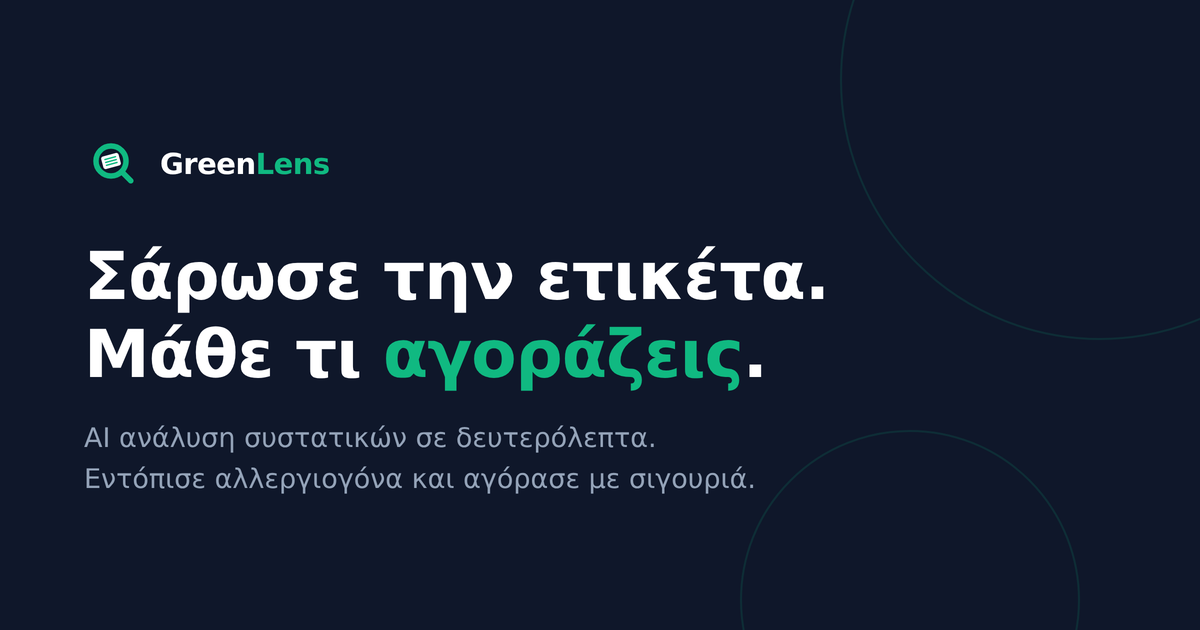
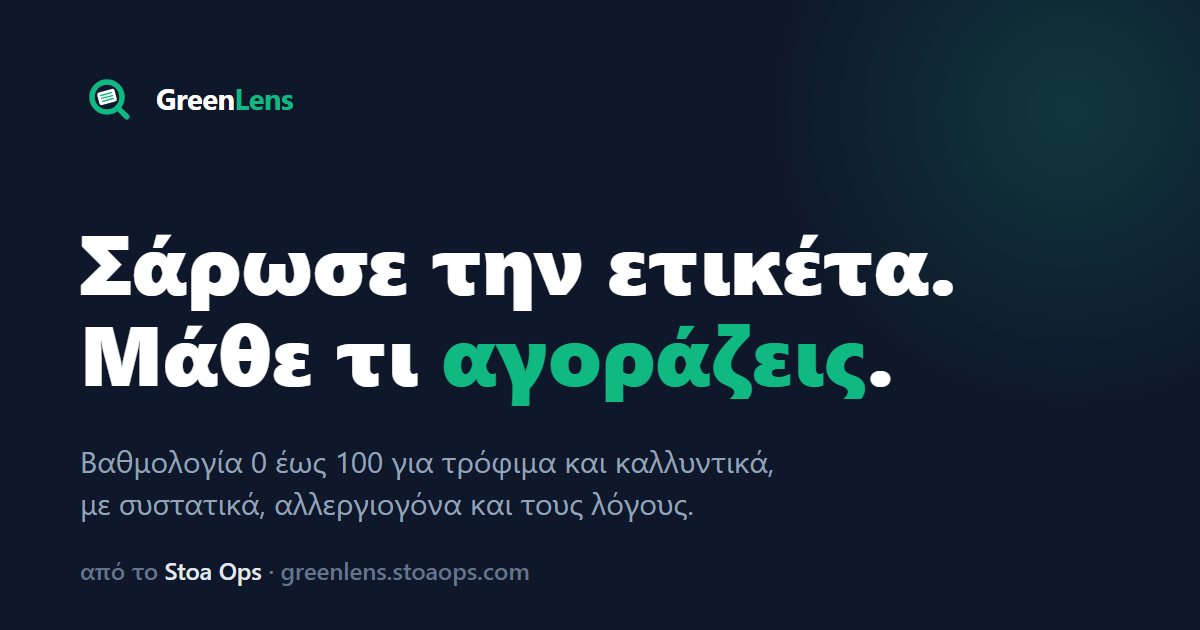
feat(seo): canonical domain, JSON-LD, new OG image and Stoa Ops credit
Fix robots/sitemap domain, align theme colour, drop inaccurate "AI" and
"medical" wording, add Stoa Ops attribution on Home, and stop long
ingredient names overlapping the rating badge.

diff --git a/index.html b/index.html
@@ -14,8 +14,12 @@
 
     <meta
       name="description"
-      content="Σκάναρε συστατικά τροφίμων και καλλυντικών με AI. Διάβασε συστατικά, αλλεργιογόνα και σημεία προσοχής πριν αγοράσεις."
+      content="Σκάναρε την ετικέτα τροφίμων και καλλυντικών και δες βαθμολογία 0 έως 100, συστατικά, αλλεργιογόνα και σημεία προσοχής πριν αγοράσεις."
     />
+
+    <meta name="robots" content="index, follow" />
+    <meta name="author" content="Stoa Ops" />
+    <link rel="canonical" href="https://greenlens.stoaops.com/" />
 
     <meta name="mobile-web-app-capable" content="yes" />
     <meta name="apple-mobile-web-app-capable" content="yes" />
@@ -24,7 +28,7 @@
 
     <meta
       name="theme-color"
-      content="#F4F6F3"
+      content="#10B981"
     />
 
     <!-- Favicons -->
@@ -55,7 +59,7 @@
 
     <meta
       property="og:description"
-      content="AI ανάλυση συστατικών τροφίμων και καλλυντικών. Δες αλλεργιογόνα, σημεία προσοχής και χρήσιμες πληροφορίες σε δευτερόλεπτα."
+      content="Βαθμολογία 0 έως 100 για τρόφιμα και καλλυντικά, με συστατικά, αλλεργιογόνα και σημεία προσοχής. Σταθεροί κανόνες, εξηγήσιμο αποτέλεσμα."
     />
 
     <meta
@@ -88,6 +92,13 @@
       content="630"
     />
 
+    <meta
+      property="og:image:alt"
+      content="GreenLens: Σάρωσε την ετικέτα. Μάθε τι αγοράζεις. Από το Stoa Ops."
+    />
+
+    <meta property="og:locale" content="el_GR" />
+
     <!-- Twitter / X -->
     <meta
       name="twitter:card"
@@ -101,13 +112,32 @@
 
     <meta
       name="twitter:description"
-      content="AI ανάλυση συστατικών τροφίμων και καλλυντικών."
+      content="Βαθμολογία 0 έως 100 για τρόφιμα και καλλυντικά, με τους λόγους."
     />
 
     <meta
       name="twitter:image"
       content="https://greenlens.stoaops.com/og/og-image.png"
     />
+
+    <script type="application/ld+json">
+      {
+        "@context": "https://schema.org",
+        "@type": "WebApplication",
+        "name": "GreenLens",
+        "url": "https://greenlens.stoaops.com/",
+        "description": "Σκάναρε την ετικέτα τροφίμων και καλλυντικών και δες βαθμολογία 0 έως 100 με συστατικά, αλλεργιογόνα και σημεία προσοχής.",
+        "applicationCategory": "LifestyleApplication",
+        "operatingSystem": "Any (web, installable PWA)",
+        "inLanguage": "el",
+        "offers": { "@type": "Offer", "price": "0", "priceCurrency": "EUR" },
+        "creator": {
+          "@type": "Organization",
+          "name": "Stoa Ops",
+          "url": "https://stoaops.com"
+        }
+      }
+    </script>
   </head>
 
   <body>

diff --git a/src/components/IngredientCard.tsx b/src/components/IngredientCard.tsx
@@ -63,12 +63,14 @@ export default function IngredientCard(props: {
         aria-expanded={open}
         className="flex w-full items-start justify-between gap-2 text-left"
       >
-        <div className="min-w-0">
-          <h3 className="flex items-center gap-2 break-words text-sm font-semibold leading-tight text-slate-100">
+        <div className="min-w-0 flex-1">
+          <h3 className="flex items-start gap-2 text-sm font-semibold leading-tight text-slate-100">
             <span
-              className={`h-2 w-2 shrink-0 rounded-full ${ratingDotClass[insight.rating]}`}
+              className={`mt-1 h-2 w-2 shrink-0 rounded-full ${ratingDotClass[insight.rating]}`}
             />
-            {insight.name}
+            <span className="min-w-0 [overflow-wrap:anywhere]">
+              {insight.name}
+            </span>
           </h3>
 
           <p className="mt-1 pl-4 text-xs text-slate-500">

diff --git a/src/pages/Home.tsx b/src/pages/Home.tsx
@@ -356,6 +356,18 @@ export default function Home() {
             <span>{scale[scale.length - 1].label}</span>
           </div>
         </div>
+
+        <p className="pb-2 text-center text-xs text-ink-faint">
+          Φτιάχτηκε από το{" "}
+          <a
+            href="https://stoaops.com"
+            target="_blank"
+            rel="noopener"
+            className="font-semibold text-accent-strong underline-offset-2 hover:underline"
+          >
+            Stoa Ops
+          </a>
+        </p>
       </section>
     </main>
   );
